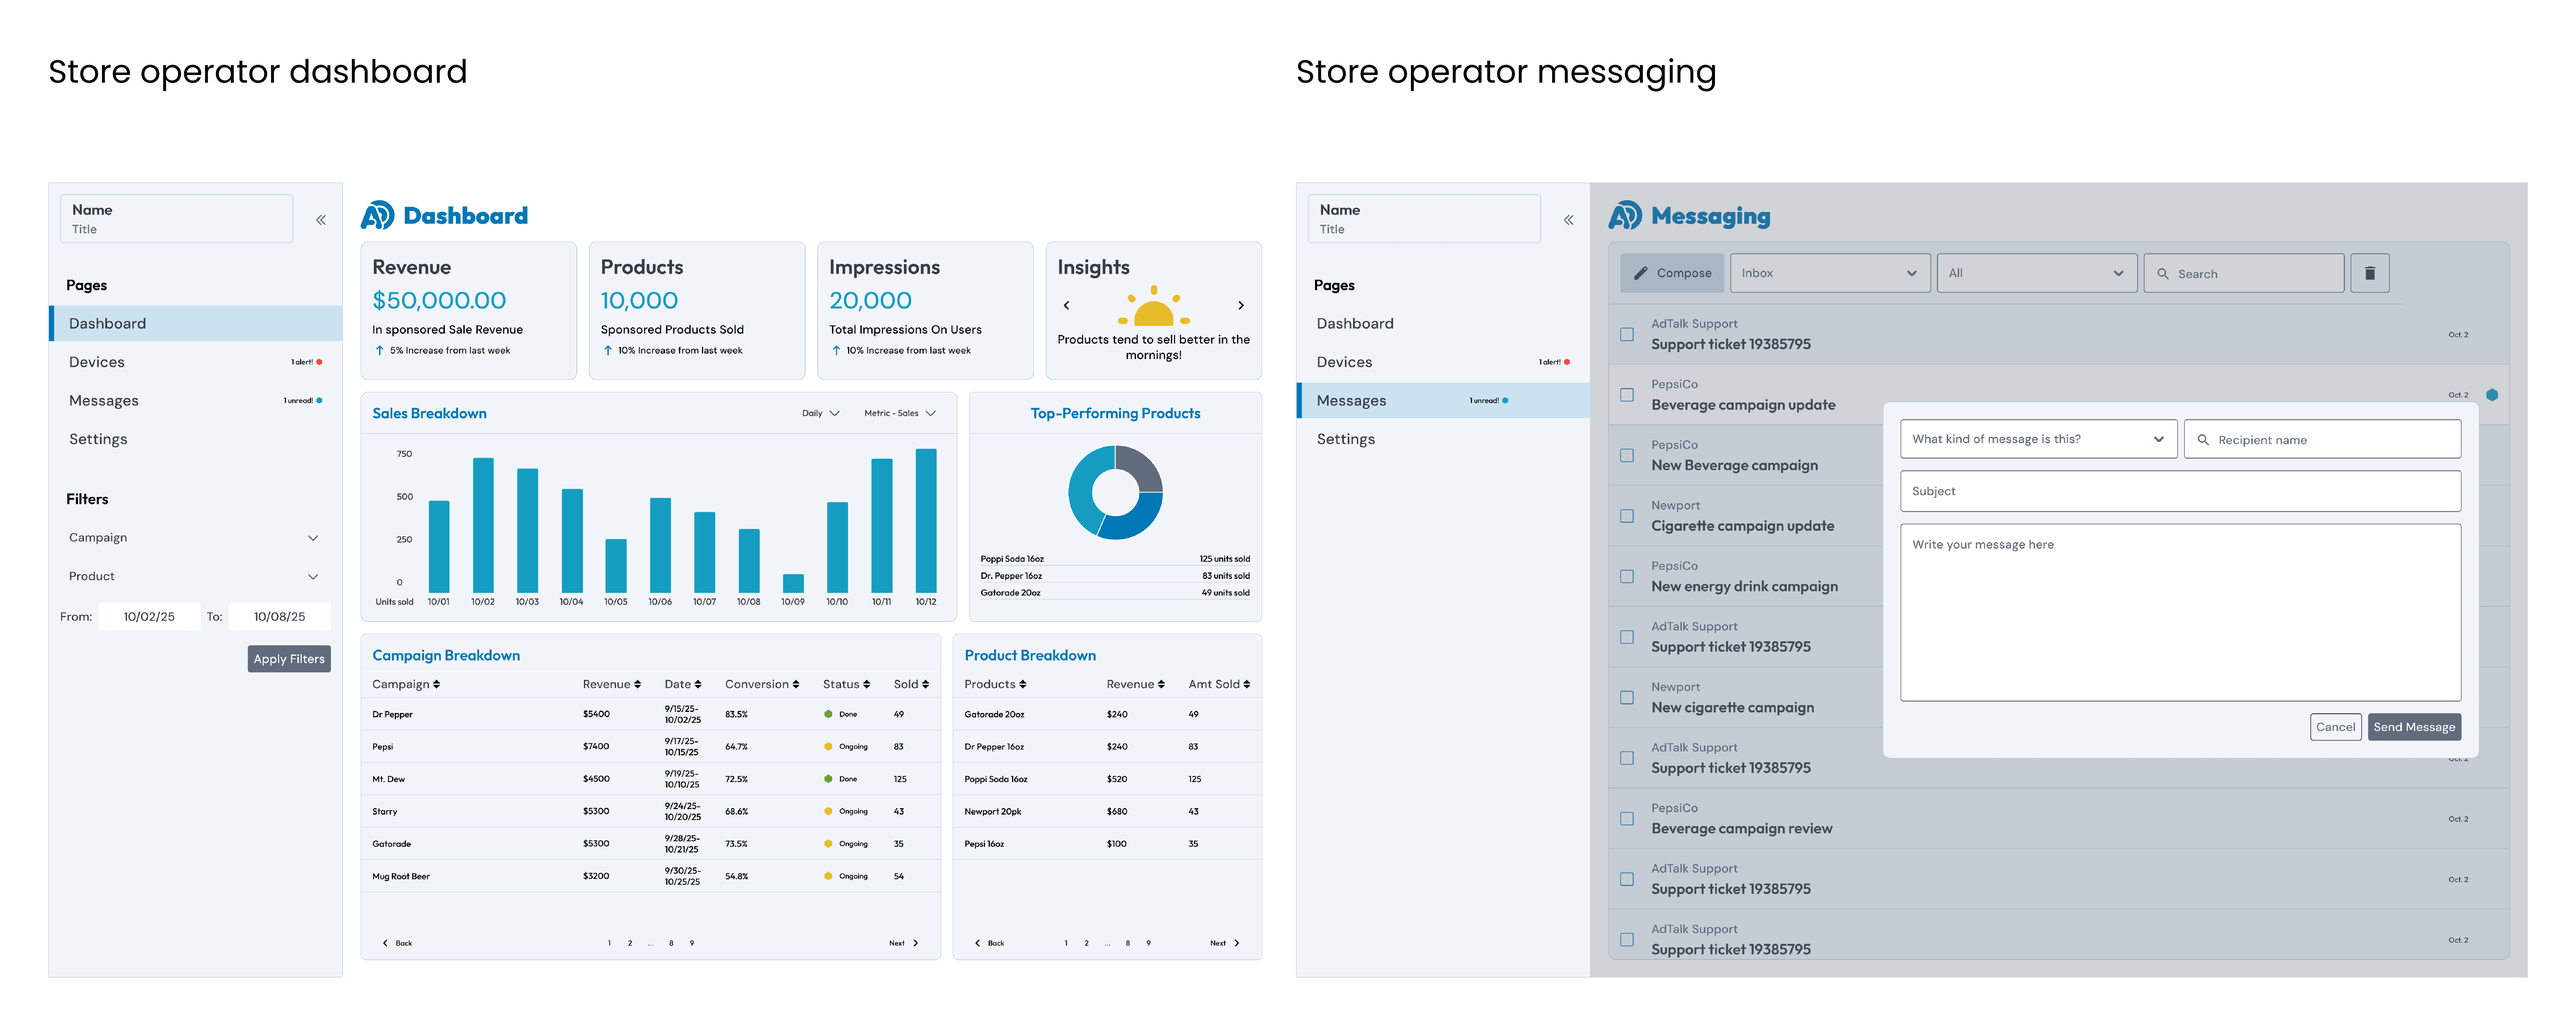
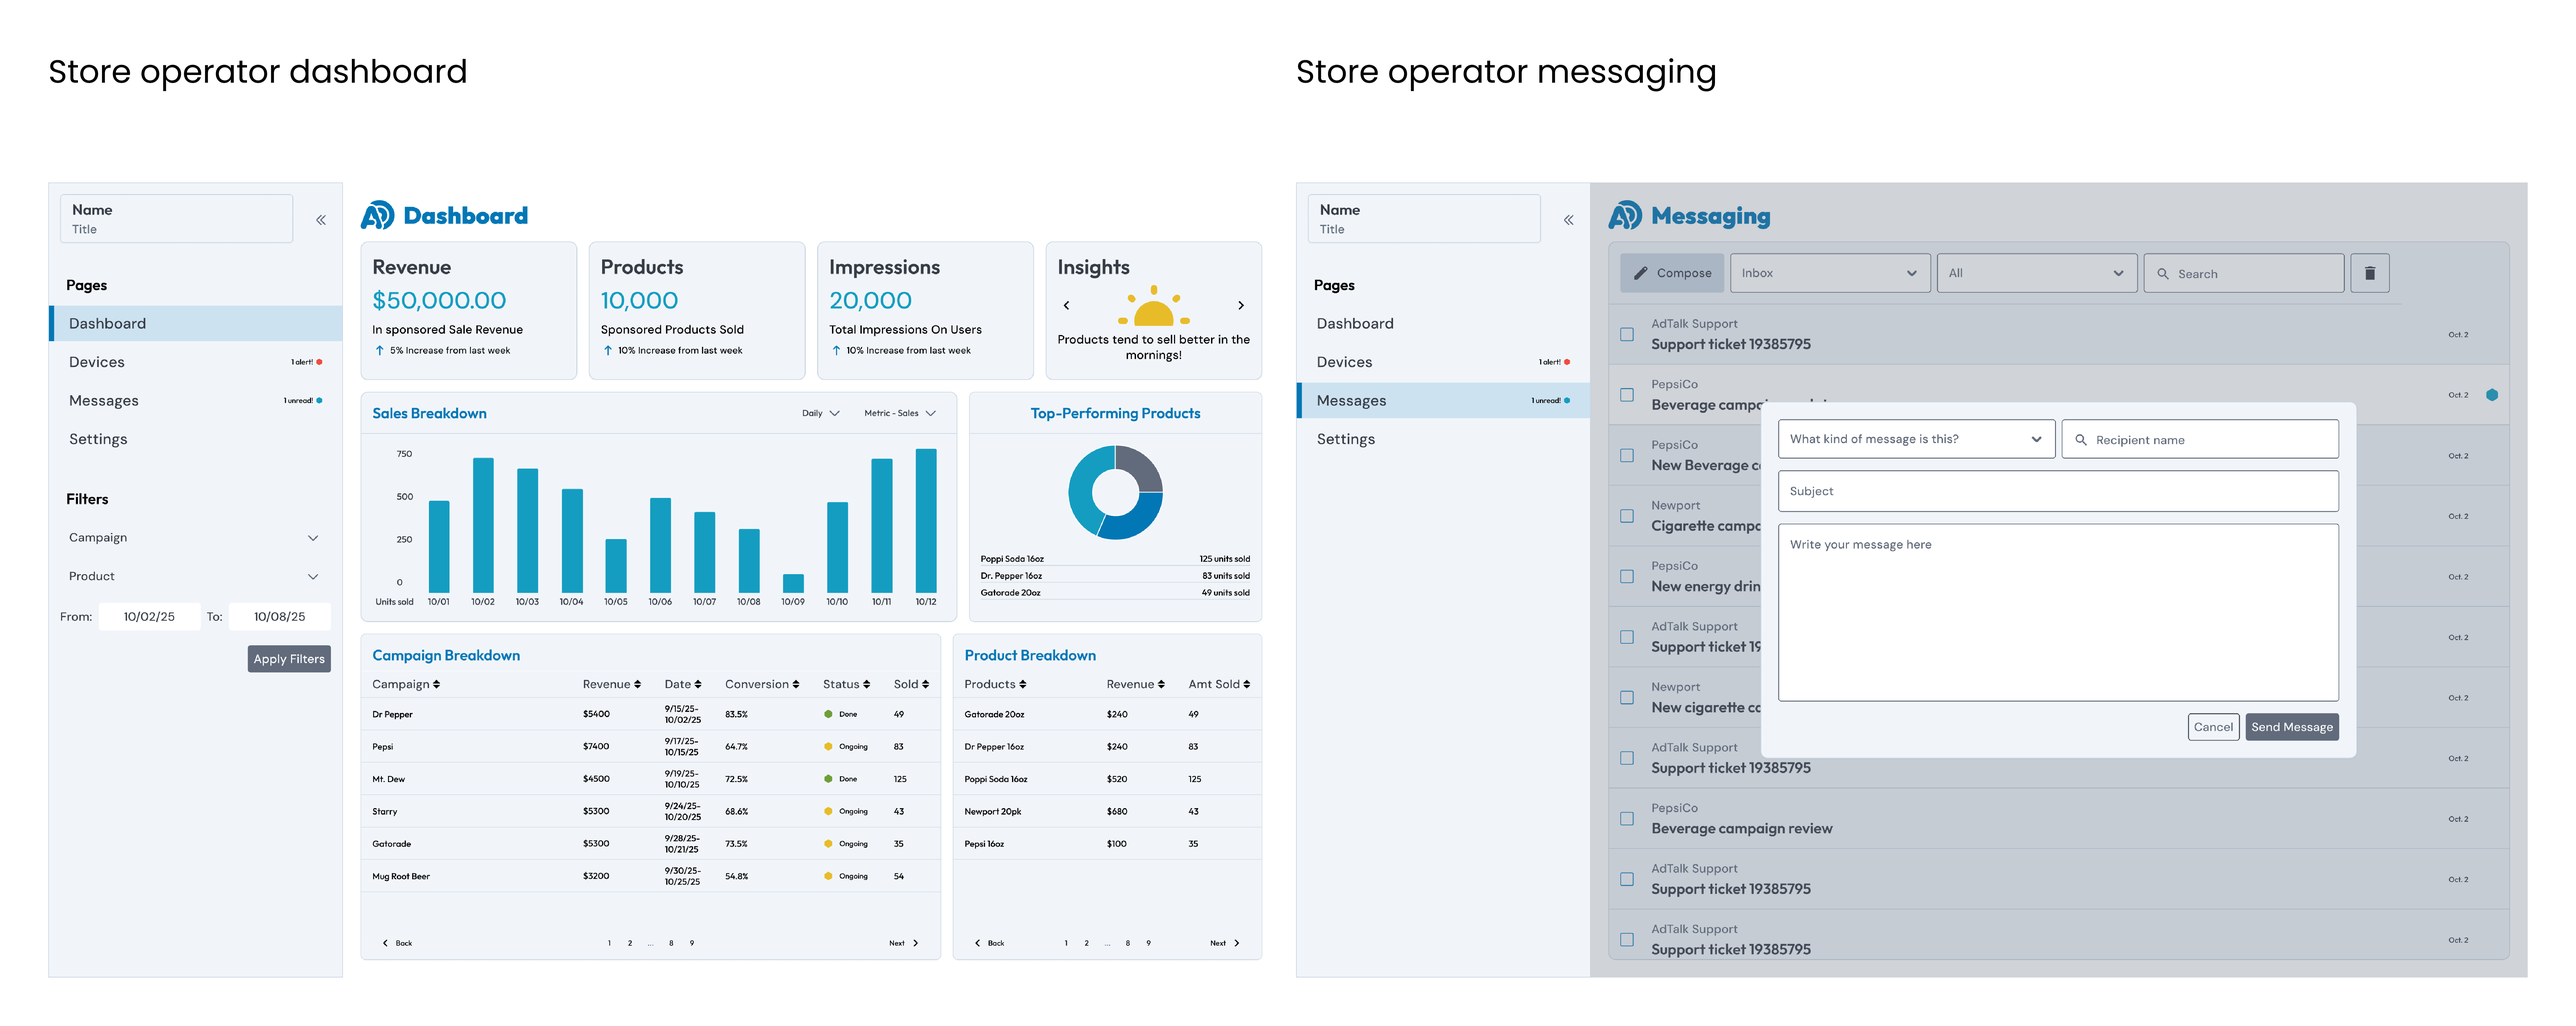
content updates + steris de anonymization because its not needed

Changed region(s): [[0.6562, 0.3726, 0.8438, 0.7453], [0.8438, 0.3726, 0.9688, 0.7453]]

diff --git a/src/pages/Home.jsx b/src/pages/Home.jsx
@@ -74,8 +74,8 @@ export default function Home() {
             className={`transition-opacity ease-in duration-1000 ${isVisible2 ? "opacity-100" : "opacity-0"}`}
           >
             <CurrentProject
-              title="Medtech Company Design System (Confidential)"
-              description="Collecting, auditing, and polishings interface components and patterns to create a design system. This design system ensures visual cohesion within operating room products and reduces workflow friction for designers, devs, and doctors alike."
+              title="STERIS Procedural Design System"
+              description="Collecting, auditing, and polishing interface components and patterns to create a design system. This design system ensures visual cohesion within operating room products and reduces workflow friction for designers, devs, and doctors alike."
               image="medtech.JPG"
             />
           </div>

diff --git a/src/content/ProjectContent.jsx b/src/content/ProjectContent.jsx
@@ -39,7 +39,7 @@ export const projects = [
         process_left_image: "/wkrm/Park_signage_content_rules.png",
         process_right_image: "/wkrm/Park_signage_content_spreadsheet.png",
         product_image: "/wkrm/Park_signage_mockups.jpg",
-        product: "https://sites.google.com/view/apardsitessignagelibrary/the-city-of-austin-parks-and-recreation-sites-signage?authuser=0",
+        product: "https://sites.google.com/view/sitessignagespecs/home",
         //style stuff
         page_layout: "wide",
         process_layout: "halfnhalf",
